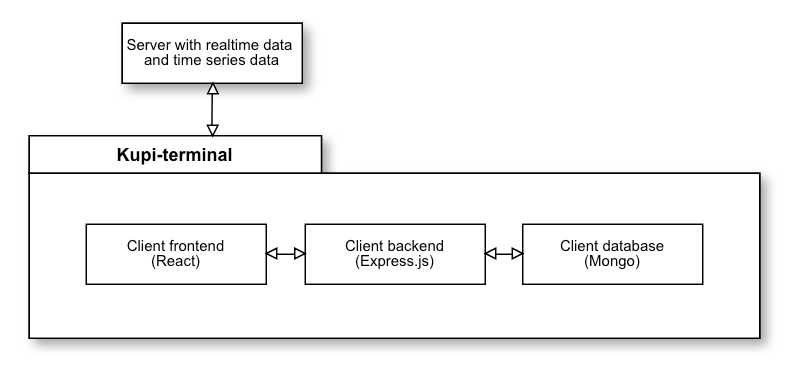
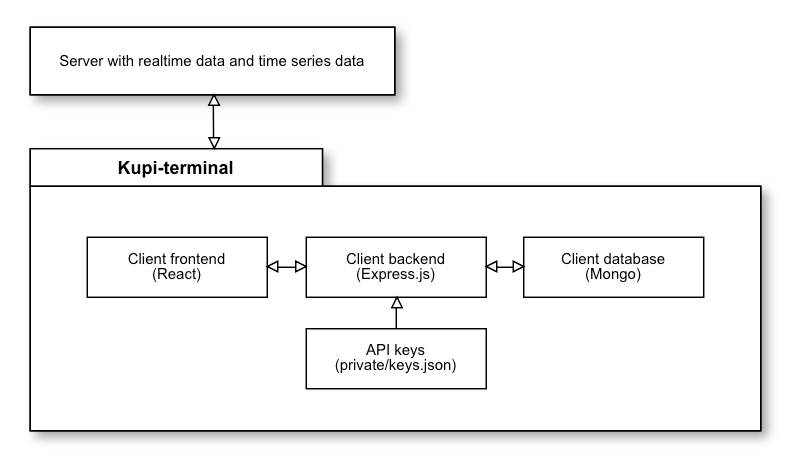
readme: warning + new structure

diff --git a/server/index.js b/server/index.js
@@ -93,6 +93,6 @@ const main = async () => {
 }
 main()
 
-app.listen(8051, '0.0.0.0', () => {
+app.listen(8051, '127.0.0.1', () => {
   console.log('KUPI termintal launched on 8051 port')
 })

diff --git a/README.md b/README.md
@@ -9,6 +9,9 @@ Open source, customized, extendable trading terminal that supports multiple cryp
 ## How it works
 ![Demo](https://github.com/kupi-network/kupi-terminal/blob/master/structure.png?raw=true)
 
+## Warning
+Terminal under heavy development. In current version trades processing by routing on client express.js server without authorization. In near future it will be fixed.
+
 ## Features
 - Open source
 - Your api keys stay on your machine, no need to send them anywhere
@@ -107,6 +110,11 @@ npm run start
 - i18n language support
 - analytics widgets
 - more stocks
+- docker version
+- app version based on electron
+- online version
+- improve security
+- auditing
 - tests
 
 ### dex
